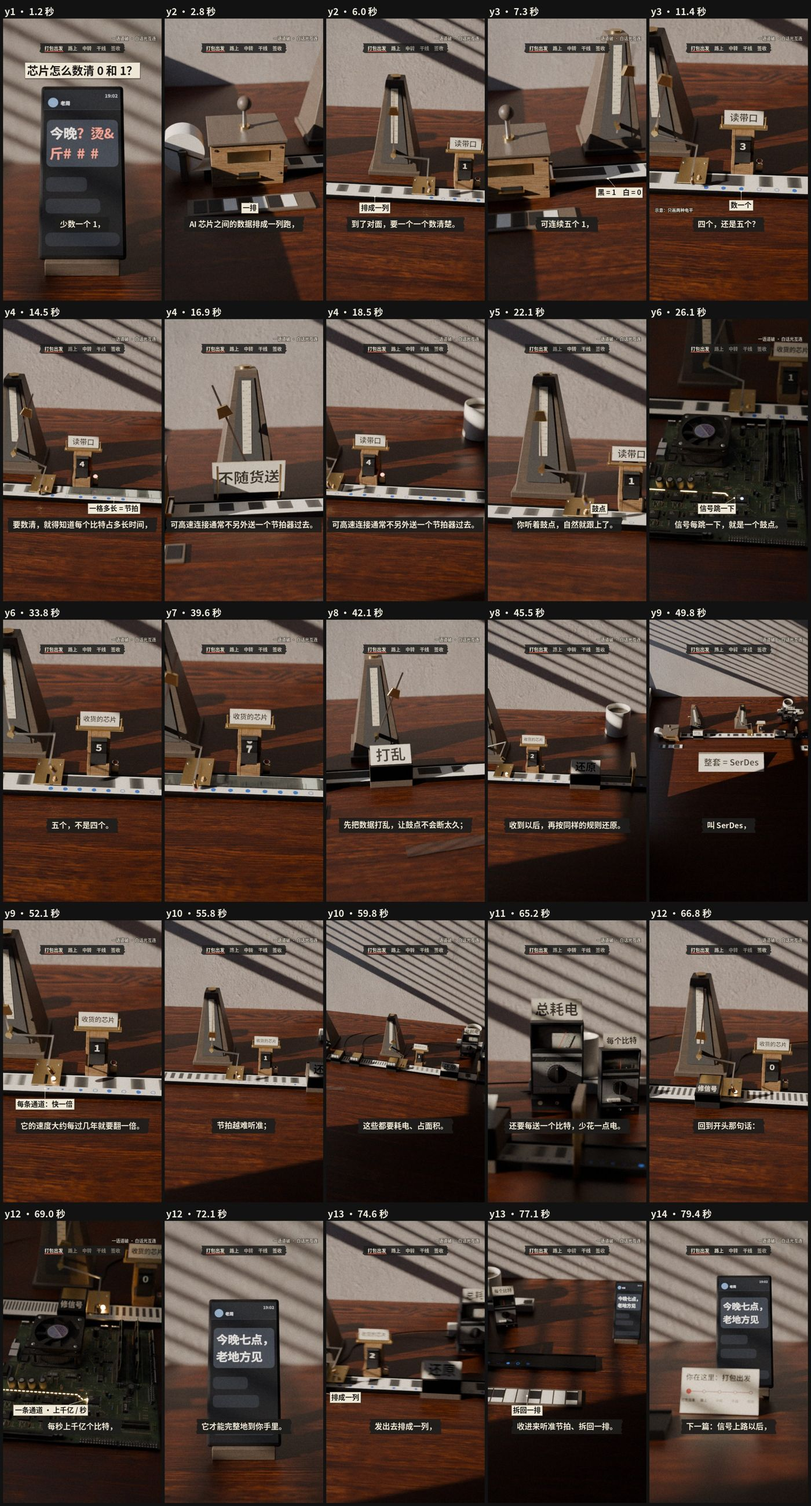
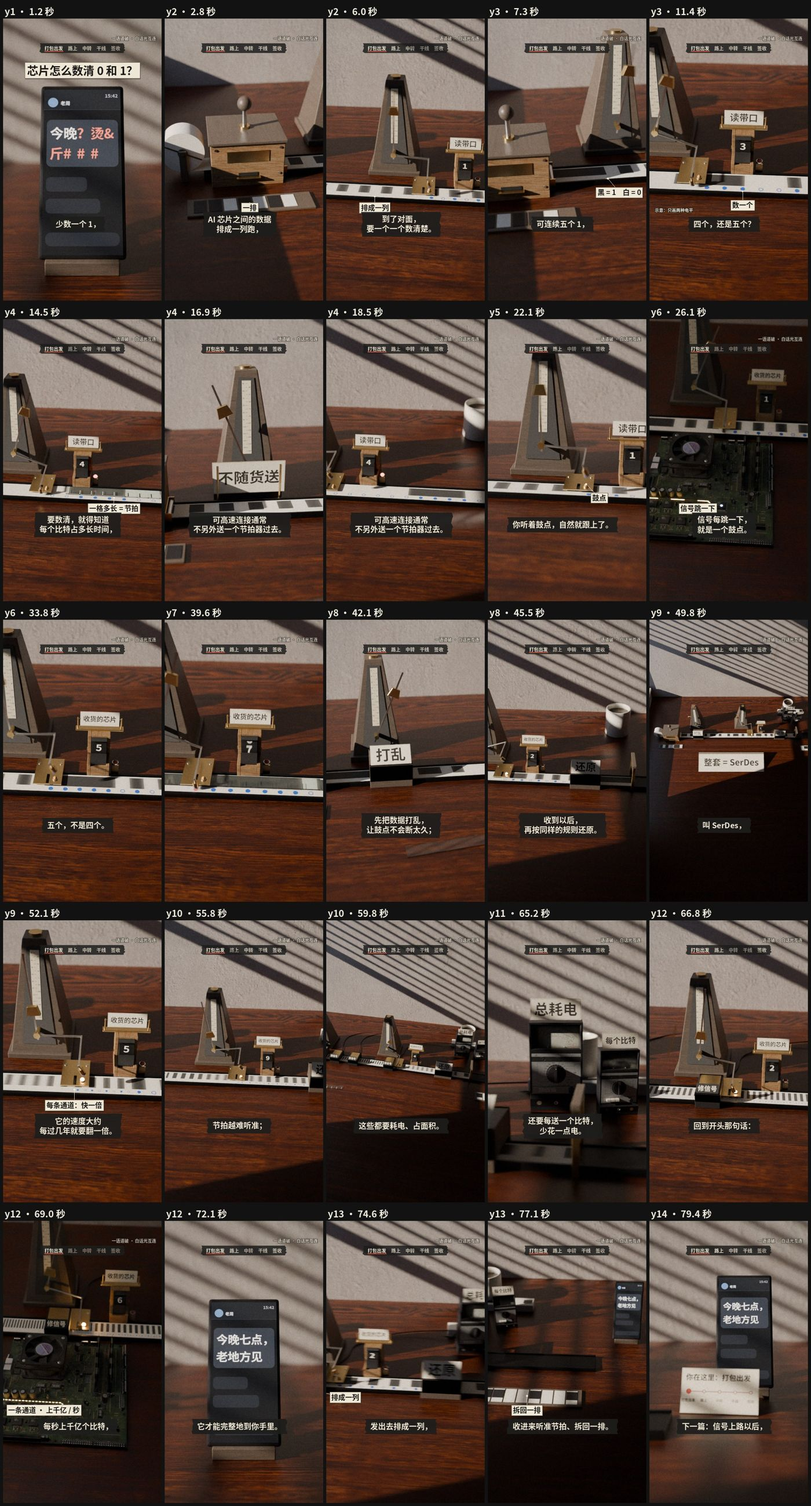
02 下集接触表：按审核意见改（y3–y4 四个点和尺子刻度、暗场机位、蓝点不出纸带、y5 构图、y9 窄格、字幕拆行等）
Claude-Session: https://claude.ai/code/session_017cWy2DJTe6QYaTQg4zvix4

diff --git a/episodes/guanghulian/02-serdes/下集_桌面演示/blender/film.py b/episodes/guanghulian/02-serdes/下集_桌面演示/blender/film.py
@@ -66,13 +66,13 @@ def pose(t, dist, pitch, yaw, focus=None, lens=50, fstop=4.0): return dict(t=t, 
 C1 = pose((SLIT_X - 0.012, YR + 0.045, 0.062), 0.84, 31, 5, (SLIT_X + 0.03, YR, 0.012))
 C2 = pose((SLIT_X + 0.058, YR + 0.022, 0.040), 0.66, 40, 3, (SLIT_X + 0.03, YR, 0.012))
 C1W = pose((SLIT_X + 0.12, YR + 0.03, 0.05), 1.15, 33, 4, (SLIT_X + 0.06, YR, 0.012))
-C3 = pose((SLIT_X - 0.030, YR + 0.050, 0.085), 0.70, 20, 6, (SLIT_X - 0.05, YR + 0.07, 0.08))
+C3 = pose((SLIT_X - 0.030, YR + 0.050, 0.040), 0.72, 20, 6, (SLIT_X - 0.05, YR + 0.07, 0.08))
 D1 = pose((PRN_X + 0.03, YR + 0.005, 0.035), 0.66, 30, -7, (PRN_X + 0.03, YR, 0.012))
 W0 = pose((-0.08, -0.30, 0.0), 1.75, 60, 0, (0.0, -0.06, 0.02), lens=28, fstop=9.0)          # 整套装置：正面俯拍，从纸带卷到切刀都在画面里
-W1 = pose((0.12, -0.04, 0.03), 1.3, 40, 12, (0.10, -0.06, 0.02), lens=35, fstop=8.0)        # 三只修字盒、插线板、两只表
+W1 = pose((0.14, -0.04, 0.03), 1.36, 40, 12, (0.10, -0.06, 0.02), lens=35, fstop=8.0)        # 三只修字盒、插线板、两只表
 M1 = pose((0.465, 0.10, 0.085), 0.46, 12, 6, (0.45, 0.09, 0.09), lens=50)                   # 两只表
 A1 = pose((PHONE.x, PHONE.y - 0.02, 0.100), 0.26, 14, 0, (PHONE.x, PHONE.y + 0.035, 0.10))
-G1 = pose((SLIT_X - 0.020, YR - 0.118, 0.0), 0.66, 45, 5, (SLIT_X - 0.02, YR - 0.19, 0.004))
+G1 = pose((SLIT_X + 0.012, YR - 0.085, 0.0), 0.80, 47, 4, (SLIT_X - 0.02, YR - 0.19, 0.004))
 
 
 def shift(p, dx=0, dy=0, dz=0, **kw):
@@ -91,9 +91,9 @@ SHOTS["y2"] = dict(n=102, cells=alt(40), cards=True,
 # y3 发货端：切入时黑带已印出四格，第 10 帧印第五下。印头处的格子 = 窄缝处 t 再加 490 帧
 SHOTS["y3d"] = dict(n=36, cells=alt(21, first=0) + [(1, 20)] * 5 + [(0, 20)], cards=True, cam=[(0, D1), (36, shift(D1, dx=0.012))])
 # y3 窄缝 + y4 读带口（同一条时间线）：第 0 帧长黑带进窄缝；没对过的节拍器 24.5 帧一下，只盖下四个实心点
-_slow = [4.5 + 24.5 * k for k in range(-12, 16)]
-_s34 = dict(n=258, cells=[(1, 20)] * 5 + [(0, 20)], pre=alt(30, first=0), rights=_slow, coral_lamp=(104, None),
-            counter=[(0, 0), (4.5, 1), (29, 2), (53.5, 3), (78, 4)], marks=dict(dot1=4.5, band=50),
+_slow = [2.5 + 25 * k for k in range(-12, 16)]            # 四个点落在每格的 1/8、3/8、5/8、7/8 处；第五下落在黑带后 3 毫米的白格里
+_s34 = dict(n=258, cells=[(1, 20)] * 5 + [(0, 20)] * 12, pre=[(0, 20)] * 3 + alt(30, first=1), rights=_slow, coral_lamp=(104, None),   # 长黑带前后都是白：只有黑带下面是实心点
+            counter=[(0, 0), (2.5, 1), (27.5, 2), (52.5, 3), (77.5, 4)], marks=dict(dot1=2.5, band=50),
             ruler=dict(t=20, cells=8, land=(120, 132), lift=(230, 248)))
 SHOTS["s34a"] = dict(_s34, cam=[(0, C2), (90, shift(C2, dx=0.004))]); RANGE["s34a"] = (0, 89)                       # y3 窄缝
 SHOTS["s34b"] = dict(_s34, cam=[(90, shift(C1, dx=0.03)), (187, shift(C1, dx=0.13))]); RANGE["s34b"] = (90, 186)    # y4 前段
@@ -106,7 +106,7 @@ SHOTS["y5"] = dict(n=120, cells=[(0, 10)] + alt(12, first=1), pre=alt(30, first=
                    cam=[(0, C3), (120, shift(C3, dx=0.01, dist=0.64))])
 # y6：第 0–120 帧黑白相间，第 140 帧进长黑带，第 240 帧出。前 96 帧是暗场（发光信号）
 _y6 = dict(n=270, cells=alt(7, first=0) + [(1, 20)] * 5 + [(0, 20)], sign=("flip", 10, 22), marks=dict(band=190))
-SHOTS["y6g"] = dict(_y6, glow=True, cam=[(0, G1), (96, shift(G1, dx=0.010, dy=-0.006, dist=0.61, pitch=46, yaw=3.5))]); RANGE["y6g"] = (0, 95)
+SHOTS["y6g"] = dict(_y6, glow=True, cam=[(0, G1), (96, shift(G1, dx=0.006, dy=-0.006, dist=0.75))]); RANGE["y6g"] = (0, 95)
 SHOTS["y6c"] = dict(_y6, cam=[(96, C1), (112, C1), (238, C2), (270, shift(C2, dx=0.003))]); RANGE["y6c"] = (96, 269)
 # y7 一长串全是 1：节拍器 23 帧一下，没人纠正；第五个点滑过格边
 _r7 = [-10 - 20 * k for k in range(12, -1, -1)] + [10 + 23 * k for k in range(1, 8)]
@@ -122,21 +122,21 @@ SHOTS["y8c"] = dict(n=85, scr=True, orig=[(1, 20)] * 80, orig_pre=[(1, 20)] * 40
 SHOTS["y9e"] = dict(n=94, scr=True, orig="random", cells="random", sign="B", props={"scr", "des", "meters", "cutter", "serdes"}, serdes=(62, 70),
                     cam=[(0, W0), (94, shift(W0, dist=1.72))])
 # y9 窄缝 + y10 + y11（同一条时间线）：第 10 帧起格子窄一半；第 62 帧起是 y10，第 254 帧起是 y11（第 297 帧起再窄一档）
-_s9cells = [(0, 10)] + alt(28, w=10, first=1)
+_s9cells = alt(29, w=10, first=0)
 _s9cells += alt(140, w=5, first=(_s9cells[-1][0] + 1) % 2)
-_s9 = dict(n=374, scr=True, orig="random", cells=_s9cells, pre=alt(30, first=1), sign="B", props=set(ALL),
+_s9 = dict(n=374, scr=True, orig="random", cells=_s9cells, pre=alt(4, w=10, first=1) + alt(30, first=1), sign="B", props=set(ALL),
            g=[(-9999, 0.35), (72, 1.0), (62 + 95 + 33, 0.5), (62 + 151, 0.1)],
            drops=dict(fix1=62 + 95, fix2=62 + 125, fix3=62 + 144), needle_big=[(0, 0.25), (62 + 154, 0.25), (62 + 178, 0.80), (374, 0.82)],
            needle_small=[(0, 0.70), (254 + 92, 0.70), (254 + 99, 0.48), (254 + 105, 0.60), (254 + 114, 0.40), (374, 0.42)])
-SHOTS["s9a"] = dict(_s9, cam=[(0, C2), (62, shift(C2, dx=0.004))]); RANGE["s9a"] = (0, 61)                           # y9 窄缝
-SHOTS["s9b"] = dict(_s9, cam=[(62, shift(C2, dx=0.004)), (62 + 86, shift(C1W, dx=-0.10)), (62 + 100, shift(C1W, dx=-0.10)),
+SHOTS["s9a"] = dict(_s9, cam=[(0, shift(C2, dx=-0.05)), (62, shift(C2, dx=-0.045))]); RANGE["s9a"] = (0, 61)                           # y9 窄缝
+SHOTS["s9b"] = dict(_s9, cam=[(62, shift(C2, dx=-0.045)), (62 + 86, shift(C1W, dx=-0.10)), (62 + 100, shift(C1W, dx=-0.10)),
                               (62 + 156, W1), (254, shift(W1, dist=1.86)), (374, M1)]); RANGE["s9b"] = (62, 373)   # y10 + y11
 # y12 读带口：蓝点稳稳地一个接一个（6 毫米一格）
 SHOTS["y12c"] = dict(n=31, scr=True, orig="random", cells=alt(200, w=5), pre=alt(120, w=5, first=1), sign="B", props=set(ALL), fixed=True, needle_big=[(0, 0.82)], needle_small=[(0, 0.42)],
                      g=[(-9999, 0.1)], cam=[(0, C1), (31, shift(C1, dx=0.01, dist=0.80))])
 # y12 暗场：格子从 6 毫米窄到 3 毫米，走线上是带细闪的金色流光
 SHOTS["y12g"] = dict(n=55, glow=True, scr=True, orig="random", cells=alt(3, w=5) + alt(260, w=2.5, first=1), pre=alt(120, w=5, first=1), sign="B", props=set(ALL), fixed=True,
-                     g=[(-9999, 0.1)], cam=[(0, G1), (55, shift(G1, dx=0.008, dy=-0.005, dist=0.62))])
+                     g=[(-9999, 0.1)], cam=[(0, G1), (55, shift(G1, dx=0.005, dy=-0.005, dist=0.76))])
 # y12 手机：乱码从「七」字起一个个变回来
 SHOTS["y12a"] = dict(n=76, cells=alt(8), props=set(ALL), fixed=True, cam=[(0, A1), (76, shift(A1, dist=0.34))], phone=("y12", 76))
 # y13 读带口 → 切刀 → 托盘：一格切一段，拆回一排
@@ -246,6 +246,7 @@ _src = open(os.path.join(HERE, "rig.py"), encoding="utf-8").read()
 exec(_src[_src.index("bpy.ops.wm.read_factory_settings"):_src.index("# ---------- 导轨")], globals())
 bpy.data.objects.remove(bpy.data.objects["desk"])                                       # 桌子往镜头这边加深：大全景里下半个画面也是桌面
 box("desk", -0.80, 1.00, -1.35, 0.40, -0.032, 0.0, WOOD, bevel=0.0015)
+M_BLUE_T = M_BLUE.copy()
 M_CORAL, _ = principled("dot_coral", **{"Base Color": (0.80, 0.16, 0.10, 1), "Roughness": 0.42})
 box("rail", RX0, RX1, YR - 0.027, YR + 0.027, 0, RAIL_H, M_RAIL, bevel=0.0006)
 box("rail_lip_n", RX0, RX1, YR - 0.027, YR - 0.0235, RAIL_H, RAIL_H + 0.0022, M_RAIL, bevel=0.0005)
@@ -394,7 +395,7 @@ def dot(t, solid, coral, rad):
     else:
         verts += [(0.72 * x, 0.72 * y, 0) for x, y, _ in verts[1:]]
         faces = [(1 + s, 1 + (s + 1) % seg, 1 + seg + (s + 1) % seg, 1 + seg + s) for s in range(seg)]
-    o = add_obj("dot", mesh_from("dot", verts, faces)); o.data.materials.append(M_CORAL if coral else M_BLUE)
+    o = add_obj("dot", mesh_from("dot", verts, faces)); o.data.materials.append(M_CORAL if coral else M_BLUE_T)
     o.location = (tape_x(t) + random.uniform(-0.0003, 0.0003), Y_DOT + random.uniform(-0.0003, 0.0003), Z_TAPE + 0.00003)
     o.parent = tape
     if t > -2:
@@ -403,6 +404,8 @@ def dot(t, solid, coral, rad):
         set_interp(o, "CONSTANT")
 
 
+# 蓝点只在纸带上：有还原盒时到盒子里为止（还原以后带上是原来的数据，清点的记号不跟过去），否则到纸带尽头
+for m_ in (M_BLUE_T, M_CORAL): cut_outside(m_, PRN_X, X_DES - 0.02 if "des" in PROPS else (X_CUT if "cutter" in PROPS else 0.74))
 CORAL = SP.get("coral_dots", [])
 STAMPS = [r for r in RIGHTS if -330 < r <= NF + 1]
 for r in STAMPS:
@@ -467,7 +470,7 @@ def wheel_rot(n): return PHI_W - radians(36) * n
 
 # 计数：新一段黑带进来清零，每盖一个实心点加一（格子窄于 15 帧时不数，轮子转不过来）
 events = [(t, "reset") for t, w in edges(PAT_A) if bit_at(PAT_A, t + 0.01) == 1 and w >= 15] + \
-         [(r, "inc") for r in RIGHTS if bit_at(PAT_A, r) == 1 and PER[r] >= 15]
+         [(r, "inc") for r in RIGHTS if bit_at(PAT_A, r) == 1]                          # 格子窄了以后不清零，轮子一直往上翻
 run, count_keys = 0, []
 for t, ev in sorted(e for e in events if -400 < e[0] <= NF + 2):
     run = 0 if ev == "reset" else run + 1
@@ -482,6 +485,7 @@ for t, n_ in count_keys:
     whub.rotation_euler = (wheel_rot(prev), 0, 0); whub.keyframe_insert("rotation_euler", frame=t)
     whub.rotation_euler = (wheel_rot(n_), 0, 0); whub.keyframe_insert("rotation_euler", frame=t + 3)
     prev = n_
+if count_keys and min(b_ - a_ for (a_, _), (b_, _) in zip(count_keys[:-1], count_keys[1:])) < 6 if len(count_keys) > 1 else False: set_interp(whub, "LINEAR")
 HX0, HX1 = CX - WW / 2 - 0.0012, CX + WW / 2 + 0.0012
 HT = CZ + WR + 0.006
 for nm_, (a, b_) in {"l": (HX0 - 0.006, HX0), "r": (HX1, HX1 + 0.006)}.items():
@@ -668,6 +672,7 @@ tr.inputs["Color"].default_value = (0.86, 0.92, 0.90, 1); mix = nt2.nodes.new("S
 nt2.links.new(lp.outputs["Is Shadow Ray"], mix.inputs[0]); nt2.links.new(ba.outputs[0], mix.inputs[1]); nt2.links.new(tr.outputs[0], mix.inputs[2])
 nt2.links.new(mix.outputs[0], nt2.nodes["Material Output"].inputs["Surface"])
 RU = SP.get("ruler")
+M_TICK, _ = principled("ruler_tick", **{"Base Color": (0.93, 0.90, 0.80, 1), "Roughness": 0.5})
 ncell = RU["cells"] if RU else 8
 ruler = empty("ruler", (-0.22, -0.27, 0), (0, 0, radians(7)))
 RL = CELL * ncell + 0.012
@@ -675,7 +680,8 @@ RY0, RY1 = -0.0128, 0.0128
 box("ruler_body", -RL / 2, RL / 2, RY0, RY1, 0.0002, 0.0026, M_ACR, bevel=0.0004).parent = ruler
 for i in range(ncell + 1):
     x = -CELL * ncell / 2 + i * CELL
-    box(f"ruler_tick{i}", x - 0.0004, x + 0.0004, RY0, RY0 + 0.012, 0.0026, 0.00264, M_BLACK).parent = ruler
+    box(f"ruler_tick{i}", x - 0.0005, x + 0.0005, RY0, RY0 + 0.013, 0.00264, 0.00268, M_TICK).parent = ruler       # 浅色刻度，压在黑带上也看得见
+    box(f"ruler_tickb{i}", x - 0.0010, x + 0.0010, RY0, RY0 + 0.013, 0.0026, 0.00264, M_BLACK).parent = ruler      # 深色衬底，压在白格上也看得见
 if RU:
     ruler.parent = tape
     rest = Vector((tape_x(RU["t"]), YR + 0.005, Z_TAPE))
@@ -761,6 +767,7 @@ if "meters" in PROPS:
             needle.parent = piv; needle.matrix_parent_inverse = Matrix.Translation((0, 0.024, -0.148))
             for f_, v_ in keys_:
                 piv.rotation_euler = (0, radians(-38 + 76 * v_), 0); piv.keyframe_insert("rotation_euler", frame=f_)
+            needle.hide_render = True
             box(name + "_red", -0.0008, 0.0008, -0.0032, -0.0027, 0.004, 0.054, M_CORAL).parent = piv        # 模型自带的指针太细太暗，前面加一根珊瑚色的
         tex_quad(name + "_tag", (0, -0.030, 0.222 + 0.030), (1, 0, 0), (0, 0.25, 1), 0.120, 0.051, tag).parent = root   # 小签立在表顶上
         return root
@@ -792,6 +799,7 @@ if "cutter" in PROPS:
         box(f"piece{i}_p", -0.012, 0.012, -0.021, 0.021, 0, 0.0002, M_PAPER).parent = root
         if bit: box(f"piece{i}_k", -0.012, 0.012, -0.008, 0.018, 0.0002, 0.00026, M_INK).parent = root
         return root
+    if not SP.get("cut"): done = [(0, upcoming[7 - k][2] if 7 - k < len(upcoming) else k % 2) for k in range(8)]   # 不在切的镜头：右托盘和左托盘从左到右同一组黑白
     for i, (f_, bit) in enumerate(done): piece(i, bit)
     for j, (f_, bit) in enumerate(todo):
         i = len(done) + j; r = piece(i, bit); rest = r.location.copy(); fc = f_ + TB       # 这一格的后沿到切刀：落刀

diff --git a/episodes/guanghulian/02-serdes/下集_桌面演示/blender/overlay.py b/episodes/guanghulian/02-serdes/下集_桌面演示/blender/overlay.py
@@ -72,13 +72,26 @@ class Kit:
         ld.text((x + pad - b[0], y + pad - b[1]), text, font=font, fill=(26, 24, 22, int(255 * alpha)))
         im.alpha_composite(lay)
 
+    @staticmethod
+    def wrap(text, limit=13):
+        """超过 limit 个字就拆成两行：优先在靠中间的标点后面断；没有合适标点的句子在 subs.json 里用「|」标断行处。"""
+        if "|" in text: return text.split("|")                                  # subs.json 里用「|」标了断行的位置
+        if len(text) <= limit: return [text]
+        cuts = [i + 1 for i, ch in enumerate(text[:-1]) if ch in "，、；：,"] or [len(text) // 2]
+        k = min(cuts, key=lambda i: abs(i - len(text) / 2))
+        if max(k, len(text) - k) > limit + 3: k = len(text) // 2
+        return [text[:k], text[k:]]
+
     def subtitle(self, im, text):
         if not text: return
-        s = self.s; d = ImageDraw.Draw(im); b = d.textbbox((0, 0), text, font=self.f_sub)
-        w, h = b[2] - b[0], b[3] - b[1]; cx, cy = self.W / 2, 1400 * s
+        s = self.s; d = ImageDraw.Draw(im); lines = self.wrap(text)
+        bs = [d.textbbox((0, 0), t, font=self.f_sub) for t in lines]
+        lh = int(66 * s); w = max(b[2] - b[0] for b in bs); h = lh * len(lines)
+        cx, cy = self.W / 2 - 30 * s, 1400 * s                                   # 略偏左，让开抖音右侧的按钮
         lay = Image.new("RGBA", im.size, (0, 0, 0, 0)); ld = ImageDraw.Draw(lay)
-        self._torn(ld, (cx - w / 2 - 30 * s, cy - h / 2 - 20 * s, cx + w / 2 + 30 * s, cy + h / 2 + 22 * s), (*DARK, 235), len(text))
-        ld.text((cx - w / 2 - b[0], cy - h / 2 - b[1]), text, font=self.f_sub, fill=(*CREAM, 255))
+        self._torn(ld, (cx - w / 2 - 30 * s, cy - h / 2 - 16 * s, cx + w / 2 + 30 * s, cy + h / 2 + 18 * s), (*DARK, 235), len(text))
+        for i, (t, b) in enumerate(zip(lines, bs)):
+            ld.text((cx - (b[2] - b[0]) / 2 - b[0], cy - h / 2 + i * lh + (lh - (b[3] - b[1])) / 2 - b[1]), t, font=self.f_sub, fill=(*CREAM, 255))
         im.alpha_composite(lay)
 
     def chrome(self, im, station=0, next_station=None):

diff --git a/episodes/guanghulian/02-serdes/下集_桌面演示/blender/sheet.py b/episodes/guanghulian/02-serdes/下集_桌面演示/blender/sheet.py
@@ -16,7 +16,7 @@ OFF = dict(y1=0, y2=60, y3d=162, s34a=198, s34b=198, y4d=385, s34c=198, y5=456, 
 # (拍, 镜头, 帧, [(锚点, 文字, 签的哪个角对着锚点, (dx, dy), 大字?)], 角注)
 FRAMES = [
     ("y1", "y1", 30, [("phone_top", "芯片怎么数清 0 和 1？", "mb", (0, -10), True)], None),
-    ("y2", "y2", 8, [("tray", "一排", "mt", (0, 120), False)], None),
+    ("y2", "y2", 8, [("tray", "一排", "mt", (0, 170), False)], None),
     ("y2", "y2", 85, [("tape_mid", "排成一列", "mt", (0, 50), False)], None),
     ("y3", "y3d", 14, [("prn_out", "黑 = 1　白 = 0", "lt", (-40, 60), False)], None),
     ("y3", "s34a", 75, [("dot1", "数一个", "mt", (0, 60), False)], "示意：只画两种电平"),

diff --git a/episodes/guanghulian/02-serdes/下集_桌面演示/blender/make_textures_film.py b/episodes/guanghulian/02-serdes/下集_桌面演示/blender/make_textures_film.py
@@ -62,7 +62,7 @@ def screen(chars):
     im = Image.new("RGB", (SW, SH), (14, 15, 18)); d = ImageDraw.Draw(im)
     d.rectangle([0, 0, SW, 150], fill=(24, 26, 30)); d.line([(0, 150), (SW, 150)], fill=(52, 54, 60), width=2)
     d.ellipse([28, 62, 98, 132], fill=(96, 128, 170)); d.text((116, 76), "老周", font=fs, fill=(214, 214, 220))
-    d.text((SW - 110, 20), "19:02", font=fs, fill=(150, 150, 158))
+    d.text((SW - 110, 20), "15:42", font=fs, fill=(150, 150, 158))
     d.rounded_rectangle([22, 226, SW - 22, 566], radius=34, fill=(44, 47, 54))
     rows = [chars[:5], chars[5:]]
     for r, row in enumerate(rows):
